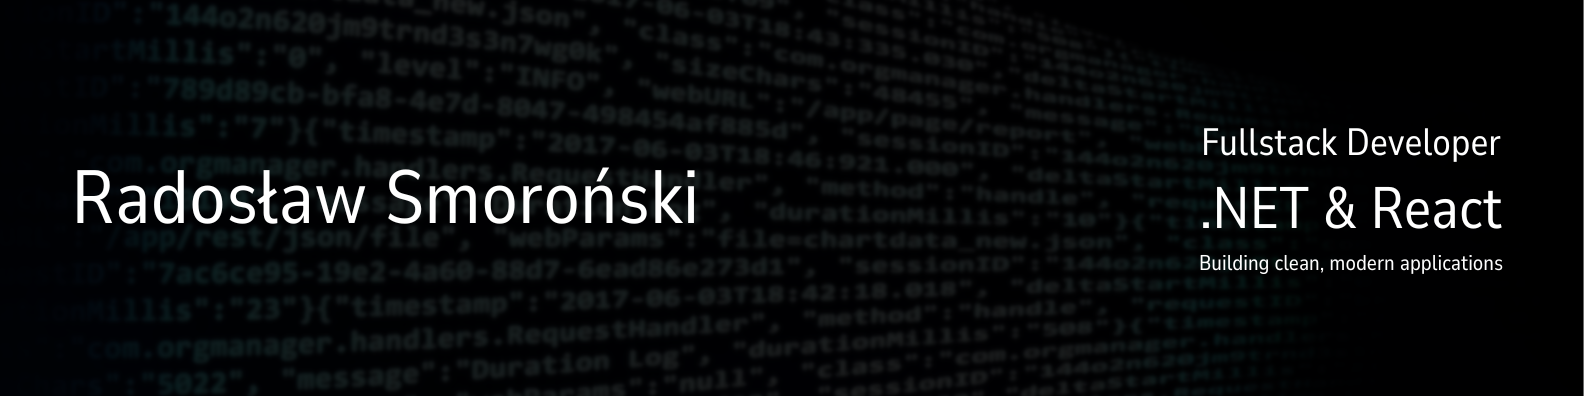
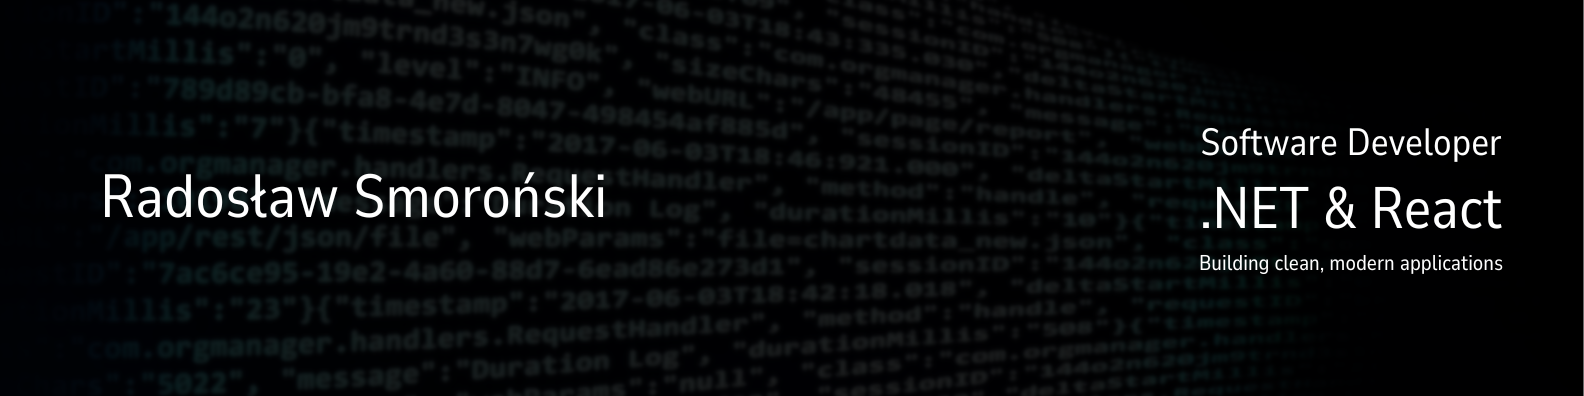
Change description and header image.

Changed region(s): [[0.0309, 0.4242, 0.464, 0.5758], [0.7424, 0.3333, 0.959, 0.3939]]

diff --git a/README.md b/README.md
@@ -2,7 +2,7 @@
   <img src="images/header.png" alt="Radosław Smoroński - .NET & React Developer Banner" width="100%">
 </p>
 
-3rd-year CS student at WSEI Kraków, focused on backend development within the .NET ecosystem. For the past 2.5 years, I've been building applications with a focus on Clean Architecture, testability, and modern C# features.
+Software Engineer and 3rd-year Computer Science student focused on solving technical and business problems, not just writing code. I specialize in the .NET ecosystem, building scalable, testable backend systems with Clean Architecture, CQRS, and proven design patterns. I also develop modern React interfaces aligned with UX principles to deliver end-to-end, user-centric products. In my daily workflow, I actively use AI tools (Cursor, LLMs) to speed up delivery, optimize solutions, and maintain high code quality.
 
 ### 🛠 Tech & Tools
 * **Backend:** C# 14, .NET 10, ASP.NET Core, SignalR, EF Core
